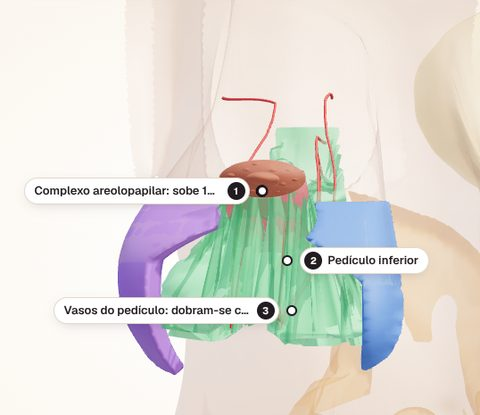
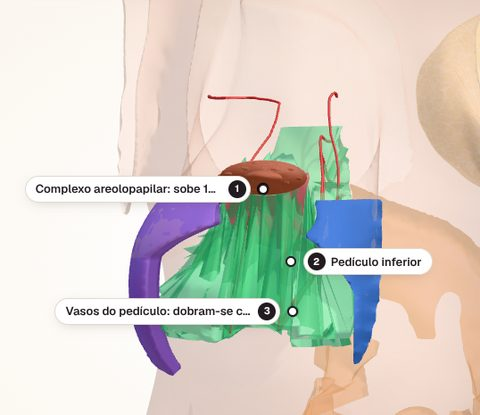
Recapture the covers that show skin; before/after figure
Covers of the ptosis profiles (now from the app), of the techniques by
degree and of every step sequence, captured with the new skin, the
neutral tone mapping and the obese habitus of the large states. The
plan gets the before/after figure in the views of the diagnosis.

Claude-Session: https://claude.ai/code/session_018yAMZHoCVJka1V1S4FGRSP

diff --git a/docs/plano-pele-habito-vasos.md b/docs/plano-pele-habito-vasos.md
@@ -13,7 +13,11 @@ Quatro objetivos, pedidos juntos:
 
 ## Resultado medido
 
-Medido com as conferências da fase A (`npm run check:skin`, `npm run check:poses`, `python3 scripts/hybrid/check_habitus.py`) e `npm run check:breast`.
+Medido com as conferências da fase A (`npm run check:skin`, `npm run check:poses`, `npm run check:habitus`) e `npm run check:breast`.
+
+![Antes e depois, nas mesmas vistas do diagnóstico: polo superior na ptose II no celular e no desktop, borda do recorte na axila e borda inferior do tronco em G4](img/pele-antes-depois.jpg)
+
+*Antes e depois, nas mesmas vistas do diagnóstico. a) e b) Listras e vincos no polo superior da ptose II. c) Borda serrilhada do recorte. d) Pontas na borda inferior do tronco em G4, que agora tem o tronco alargado pelo hábito.*
 
 | Item | Antes | Meta | Depois |
 |---|---|---|---|
